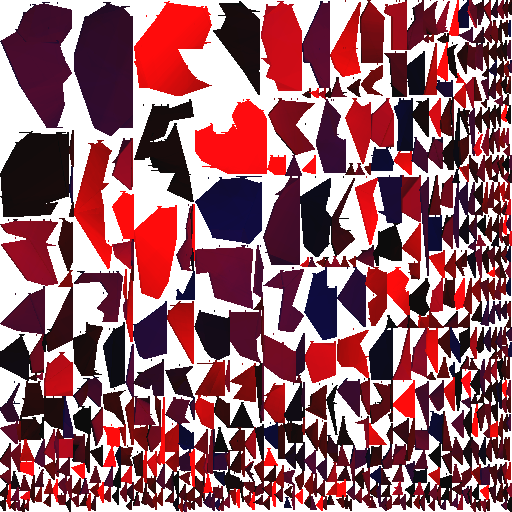
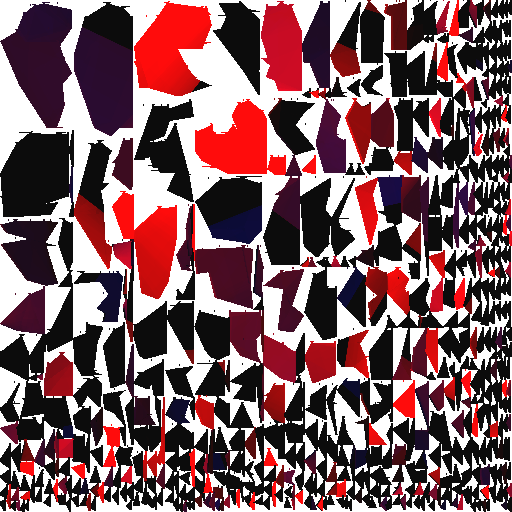
256/256 bake in under 15mins! this is pretty good

diff --git a/src/lightmap.cpp b/src/lightmap.cpp
@@ -27,8 +27,8 @@ const uint64 PLANE_RIGHT = 2;
 const uint64 PLANE_FLOOR = 3;
 #define PLANE_TO_LIGHT PLANE_FLOOR
 
-const float32 RESOLUTION_PER_WORLD_UNIT = 64.0f;
-const uint32 NUM_HEMISPHERE_SAMPLES = 64;
+const float32 RESOLUTION_PER_WORLD_UNIT = 256.0f;
+const uint32 NUM_HEMISPHERE_SAMPLES = 256;
 const uint32 SAMPLES_PER_GROUP = 8;
 static_assert(NUM_HEMISPHERE_SAMPLES % SAMPLES_PER_GROUP == 0);
 const uint32 NUM_HEMISPHERE_SAMPLE_GROUPS = NUM_HEMISPHERE_SAMPLES / SAMPLES_PER_GROUP;
